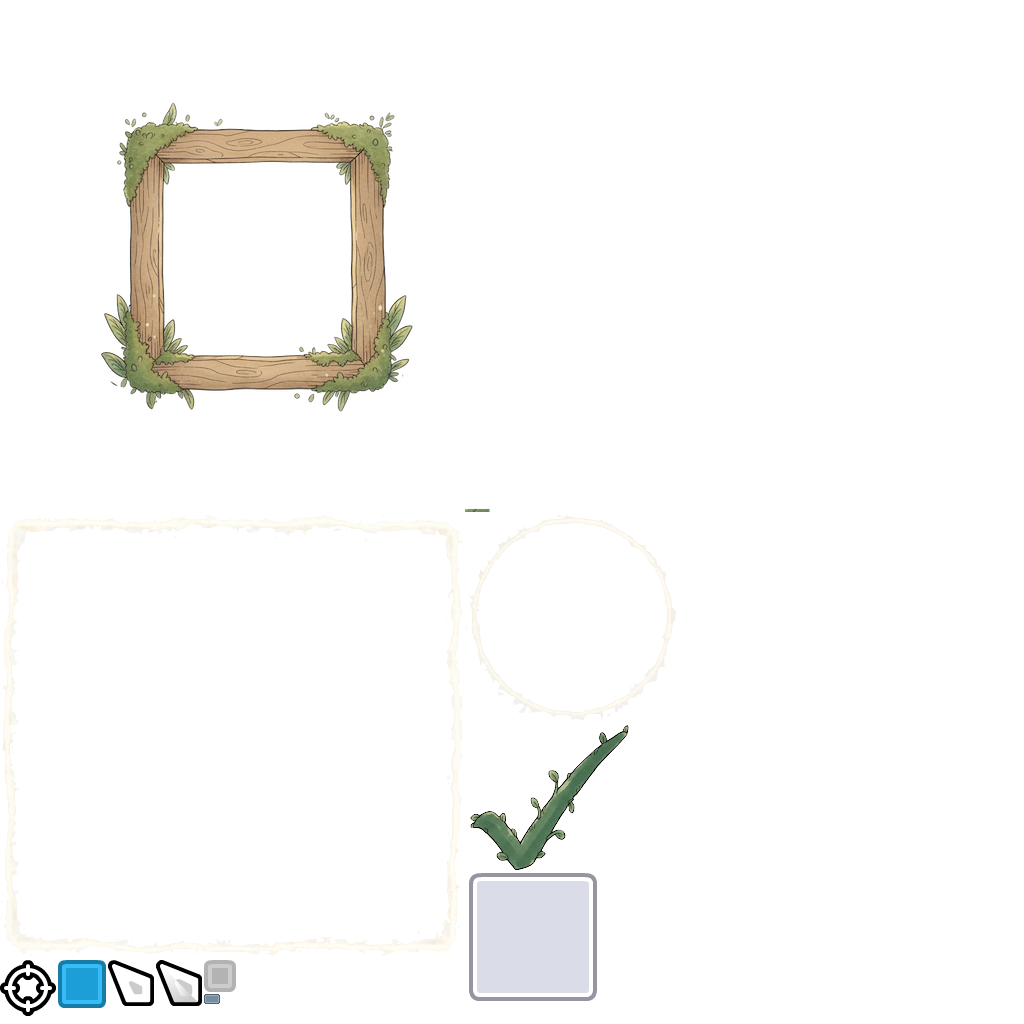
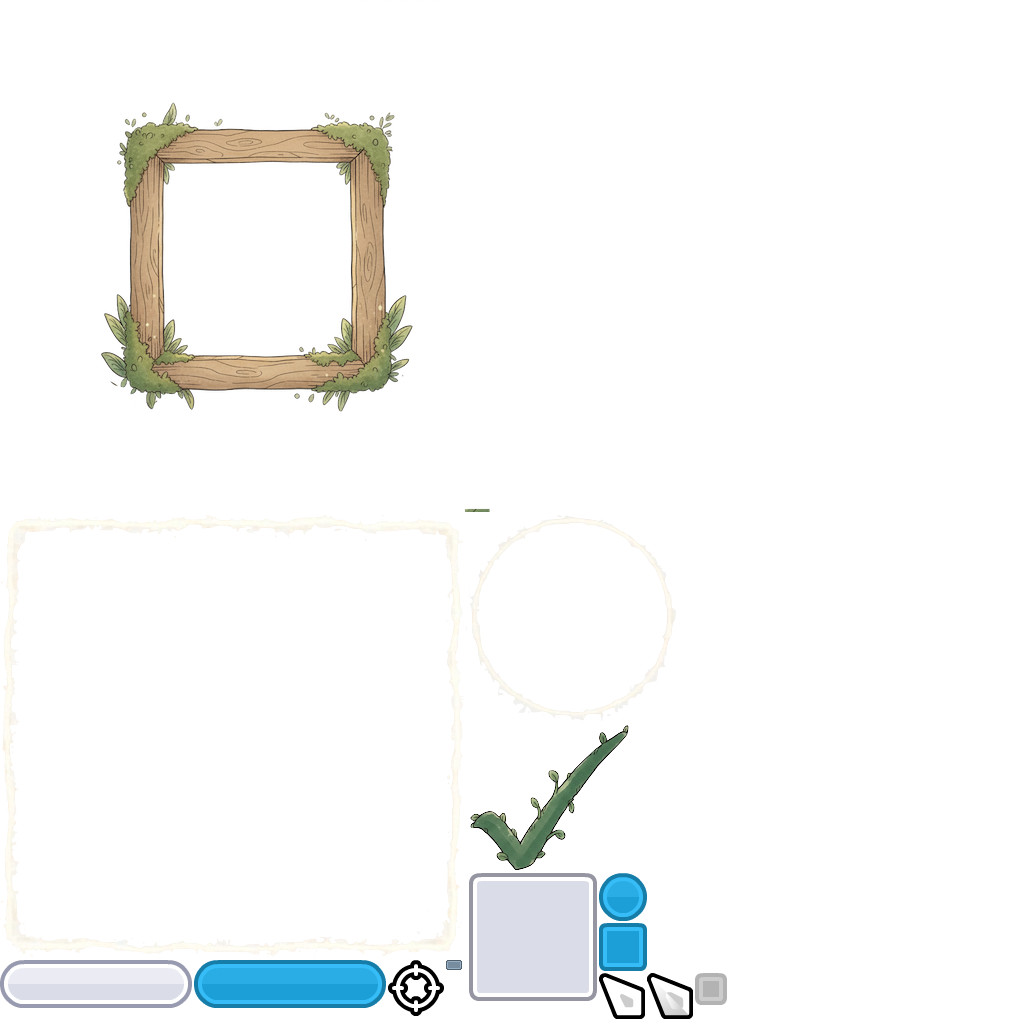
feat(ui): 添加game 的初始参数设定ui

Changed region(s): [[0.0, 0.9375, 0.4688, 1.0], [0.5625, 0.8438, 0.7188, 1.0]]

diff --git a/client/tycoon_cocos/assets/scripts/ui/game/map-select/UIGameCreateParams.ts b/client/tycoon_cocos/assets/scripts/ui/game/map-select/UIGameCreateParams.ts
@@ -242,6 +242,7 @@ export class UIGameCreateParams extends UIBase {
 
         // 默认为无限期模式
         this.m_controllerMaxRounds.selectedIndex = 0;
+        this.m_btnMaxRoundsMode.selected = true;  // 同步按钮视觉状态
 
         console.log('[UIGameCreateParams] Default values initialized:', {
             startingCash: this.m_textStartingCash.text,
@@ -295,10 +296,15 @@ export class UIGameCreateParams extends UIBase {
     private _onMaxRoundsModeClick(): void {
         // 切换Controller的page（0=infinite, 1=limited）
         const currentPage = this.m_controllerMaxRounds.selectedIndex;
-        this.m_controllerMaxRounds.selectedIndex = currentPage === 0 ? 1 : 0;
+        const newPage = currentPage === 0 ? 1 : 0;
+
+        this.m_controllerMaxRounds.selectedIndex = newPage;
+
+        // 同步按钮视觉状态
+        this.m_btnMaxRoundsMode.selected = (newPage === 0);
 
         console.log('[UIGameCreateParams] Max rounds mode changed to:',
-            this.m_controllerMaxRounds.selectedIndex === 0 ? 'infinite' : 'limited');
+            newPage === 0 ? 'infinite' : 'limited');
     }
 
     /**
